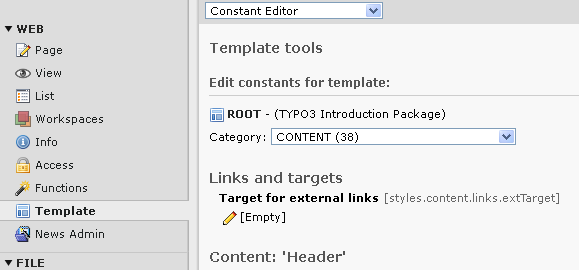
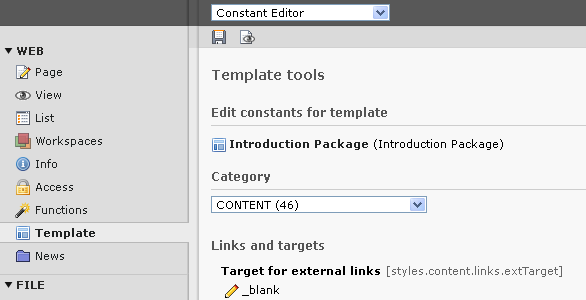
[TASK] Cleanup and update the manual for TYPO3 6.0
Cleanup of reST source code: Remove superfluous spaces around inline
markup, fix broken inline markup. Fix some typos and some wrong words.
Update screenshots.

Resolves: #45889

Changed region(s): [[0.0, 0.0, 1.0, 1.0], [0.0, 0.1481, 0.1865, 0.7111]]

diff --git a/Documentation/Syntax/TypoScriptSyntax/Index.rst b/Documentation/Syntax/TypoScriptSyntax/Index.rst
@@ -332,7 +332,7 @@ copy does not change!** Take a look at the following code::
    someObject.wrap = <h1>|<h1>
 
 The value of the "wrap" property of "anotherObject" is "<p>\|</p>". It
-it **not** "<h1>\|<h1>" because this change happens **after** the
+is **not** "<h1>\|<h1>" because this change happens **after** the
 copying. This example may seem trivial, but it's easy to loose the
 oversight in larger pieces of TypoScript.
 
@@ -353,7 +353,7 @@ The obvious advantage is that a **change of code to the original
 object affects all references**. It avoids the risk mentioned above
 with the copy operator to forget that a change at a later point does
 not affect earlier copies. On the other hand there's the reverse risk:
-it is easy to forget that changing the original object will have an
+It is easy to forget that changing the original object will have an
 impact on all references. References are very convenient, but should
 be used with caution.
 
@@ -411,7 +411,7 @@ Conditions: Lines starting with "["
 """""""""""""""""""""""""""""""""""
 
 Conditions break the parsing of TypoScript in order to evaluate the
-content of the condition line. If the evaluation returns true parsing
+content of the condition line. If the evaluation returns true, parsing
 continues, otherwise the following TypoScript is ignored until the
 next condition is found, at which point a new evaluation takes place.
 The next section in this document describes conditions in more
@@ -432,7 +432,7 @@ Example:
 
    [browser = msie]
    page.10.value = Internet Explorer
-   [else]
+   [ELSE]
    page.10.value = Not an Internet Explorer browser!
-   [end]
+   [END]
 

diff --git a/Documentation/TheDetails/Usages/Index.rst b/Documentation/TheDetails/Usages/Index.rst
@@ -173,11 +173,11 @@ of a website:
 
 TypoScript Templates contain a field for the TypoScript configuration
 code ("Setup" field) but a template record like the one in the picture
-above ("ROOT") can also contain references to other template records
-and files which contain predefined generally useful TypoScript code
-which is included and thus reusable/sharable across templates. The
-order of included TypoScript template records/files can be seen
-visually with the Template Analyzer, which you find inside the
+above ("Introduction Package") can also contain references to other
+template records and files which contain predefined generally useful
+TypoScript code which is included and thus reusable/sharable across
+templates. The order of included TypoScript template records/files can
+be seen visually with the Template Analyzer, which you find inside the
 "Template" module in the backend (if it is not there, install the
 system extension "tstemplate\_analyzer"):
 
@@ -185,8 +185,8 @@ system extension "tstemplate\_analyzer"):
    :alt: A hierarchy of TypoScript templates in the Template Analyzer.
 
 To get more background knowledge about how TypoScript templates work,
-please read the document "TypoScript Templates". To read about all
-standard objects and properties which you can use in building
+please read the section ":ref:`typoscript-templates`". To read about
+all standard objects and properties which you can use in building
 TypoScript templates you should refer to the TypoScript reference -
 TSref. For practical examples or when you want to learn by doing, look
 at the Getting Started manual.

diff --git a/Documentation/Syntax/Conditions/Index.rst b/Documentation/Syntax/Conditions/Index.rst
@@ -62,7 +62,7 @@ the according `section "Conditions" in :ref:`TSconfig
 The syntax of conditions
 """"""""""""""""""""""""
 
-A condition always has its own line and the line is detected by " [ "
+A condition always has its own line and the line is detected by "["
 (square bracket) being the first character on that line::
 
    (Some TypoScript)
@@ -75,7 +75,7 @@ A condition always has its own line and the line is detected by " [ "
 
    (Some TypoScript)
 
-As you can see from this example, the line " **[GLOBAL]** " also is a
+As you can see from this example, the line "**[GLOBAL]**" also is a
 condition. It is built-in into TypoScript and always returns TRUE. The
 line "[ condition 1 ][ condition 2]" is another condition. If "[
 condition 1 ][ condition 2]" is TRUE, then the TypoScript in the
@@ -144,10 +144,10 @@ of TypoScript Templates)::
    [browser = msie]
    page.10.value = Internet Explorer
 
-   [else]
+   [ELSE]
    page.10.value = Not an Internet Explorer browser!
 
-   [end]
+   [END]
 
    page.10.wrap = <strong>|</strong>
 
@@ -171,9 +171,9 @@ but you could do this::
 
    [browser = msie][usergroup = 3]
      # Enter nothing here!
-   [else]
+   [ELSE]
      page.10.value = This text is only displayed if the conditions above are not TRUE!
-   [end]
+   [END]
 
 
 .. _conditions-confinements:

diff --git a/Documentation/Syntax/Introduction/Index.rst b/Documentation/Syntax/Introduction/Index.rst
@@ -11,8 +11,8 @@
 Introduction
 ^^^^^^^^^^^^
 
-TypoScript is like a (large) multidimensional PHP array (see "Appendix
-A – What is TypoScript?"). Values are arranged in a tree-like
+TypoScript is like a (large) multidimensional PHP array (see
+":ref:`what-is-typoscript`"). Values are arranged in a tree-like
 hierarchy. The "branches" are indicated with periods (".") - a syntax
 borrowed from for example JavaScript and which conveys the idea of
 defining objects/properties.

diff --git a/Documentation/TypoScriptTemplates/Constants/Index.rst b/Documentation/TypoScriptTemplates/Constants/Index.rst
@@ -37,7 +37,7 @@ Here "bgCol" is set to "red", "file.toplogo" is set to
 "fileadmin/logo2.gif"; these files must be uploaded in your
 installation.
 
-.. code-block::
+.. code-block:: ts
    :emphasize-lines: 3,4
 
    bgCol = red
@@ -47,7 +47,7 @@ installation.
 
 This could also be defined in other ways, e.g. like this:
 
-.. code-block::
+.. code-block:: ts
    :emphasize-lines: 2,7
 
    bgCol = red

diff --git a/Documentation/Introduction/Index.rst b/Documentation/Introduction/Index.rst
@@ -21,7 +21,8 @@ nature of TypoScript and what the differences are between the various
 contexts in which it can be used (i.e. templates and TSconfig).
 
 If the concept of TypoScript itself is not clear, please read the
-appendix "What is TypoScript?". Otherwise feel free to ignore it.
+appendix ":ref:`What is TypoScript? <what-is-typoscript>`". Otherwise
+feel free to ignore it.
 
 
 .. _what-s-new:
